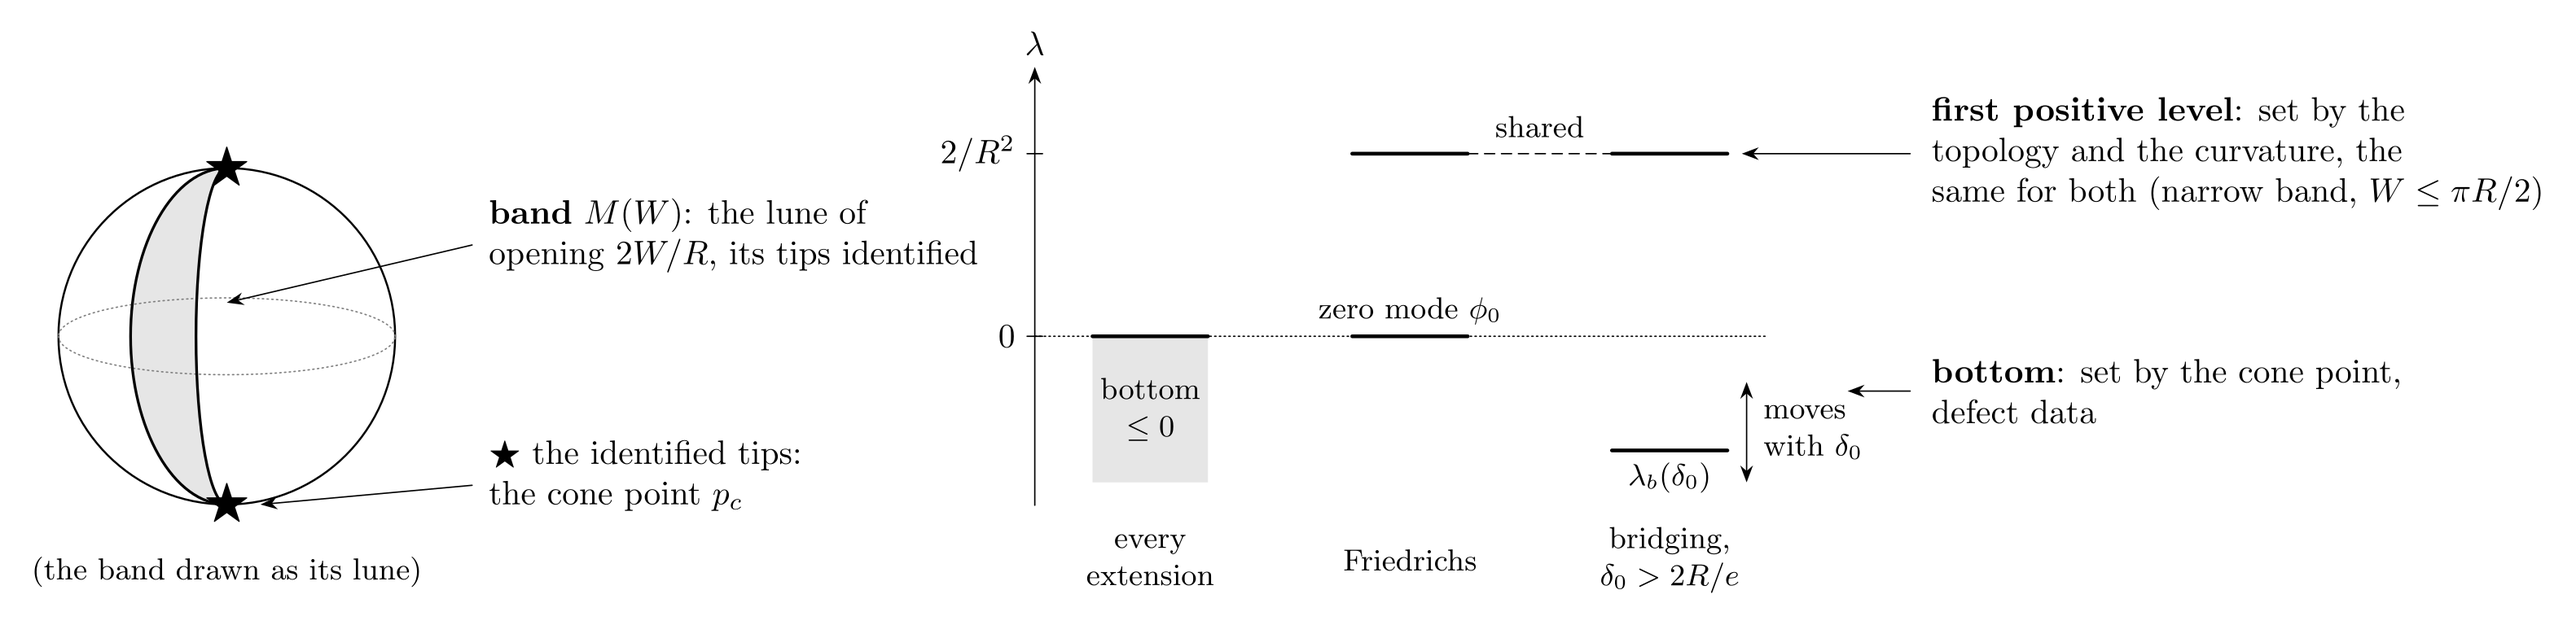
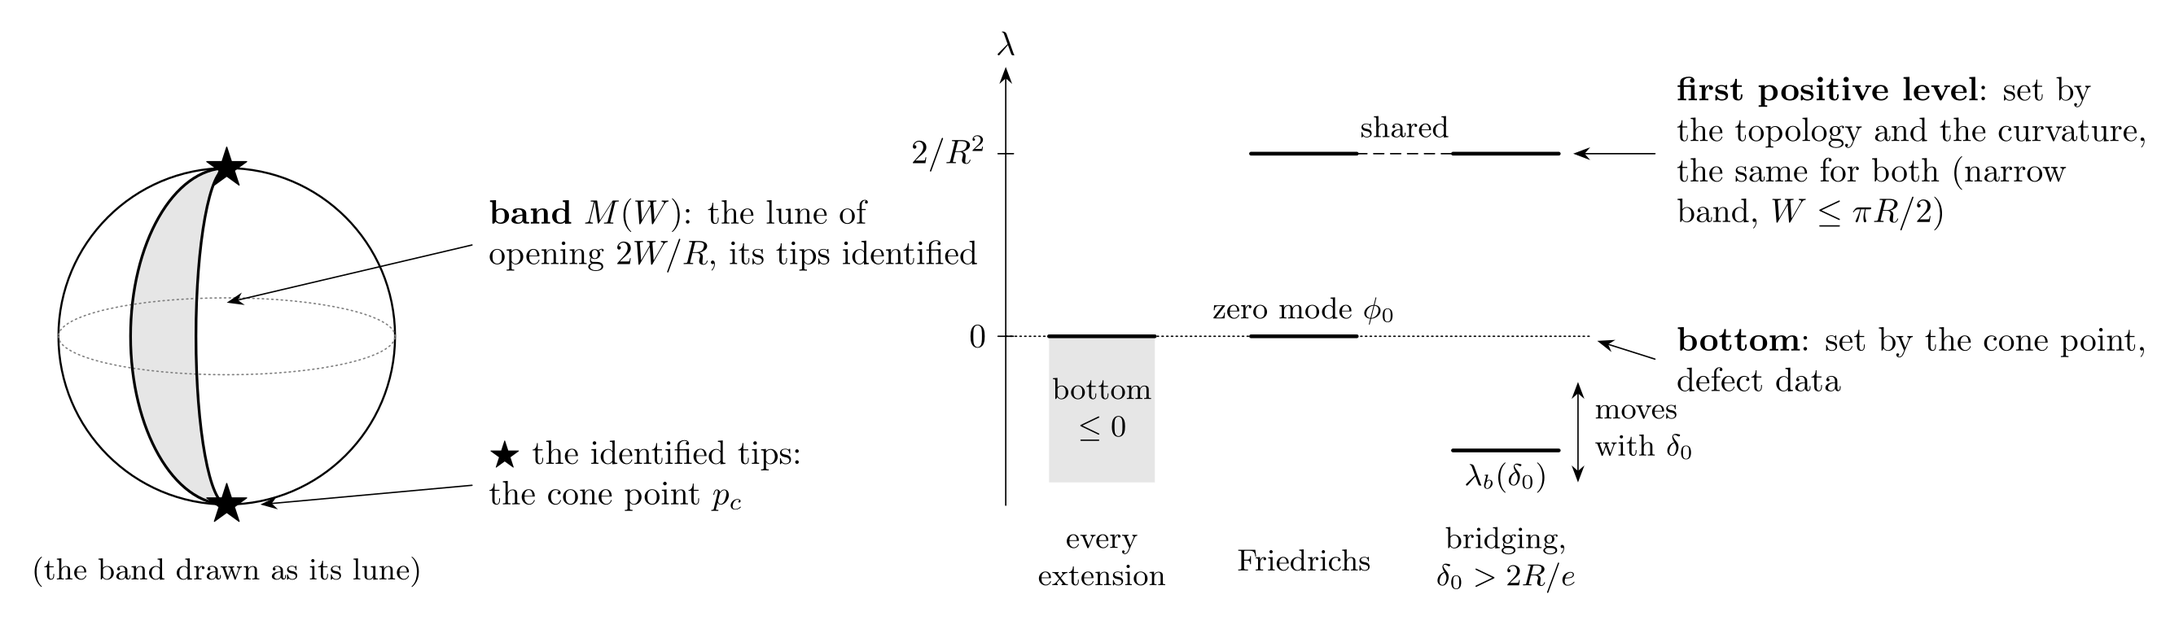
Bedrock: figures at one type size
First Eigenvalue's figure tightened to the width of the others, and
each figure's display width set in proportion to its drawn width.

diff --git a/files/framework/files/bedrock/README.md b/files/framework/files/bedrock/README.md
@@ -13,7 +13,7 @@ The postulate is one line, $`S^1 = \partial(\text{Möbius})`$, $`\text{Möbius} 
 
 ## [First Eigenvalue](files/first-eigenvalue.md)
 
-<p align="center"><img src="https://github.com/dmobius3/mode-identity-theory/blob/main/files/assets/fe-hero.png?raw=true" width="100%" alt="Left: the band M(W) drawn as its lune on the sphere, the two starred tips identified into the cone point. Right: the spectrum across realizations: every extension has bottom at most 0; Friedrichs has the zero mode at 0, bridging a bound state below 0 that moves with the defect scale; the two share the first positive level 2/R² in the narrow band"></p>
+<p align="center"><img src="https://github.com/dmobius3/mode-identity-theory/blob/main/files/assets/fe-hero.png?raw=true" width="99%" alt="Left: the band M(W) drawn as its lune on the sphere, the two starred tips identified into the cone point. Right: the spectrum across realizations: every extension has bottom at most 0; Friedrichs has the zero mode at 0, bridging a bound state below 0 that moves with the defect scale; the two share the first positive level 2/R² in the narrow band"></p>
 
 **The Surface:** The twisted Laplacian on a cone-singular constant-curvature Möbius band, where the orientation twist and collapsed-fiber cone make the ground state extension-dependent while selecting a stable first-positive branch at $`2/R^2`$ in the narrow regime. The framework reads this scale as the surface spectral seed $`\Lambda_\text{top}`$. The level carrying it is the first positive one, not a ground state, and it belongs to an operator on the surface rather than on the temporal edge.
 
@@ -25,7 +25,7 @@ The postulate is one line, $`S^1 = \partial(\text{Möbius})`$, $`\text{Möbius} 
 
 ## [Coexact Gap](files/coexact-gap.md)
 
-<p align="center"><img src="https://github.com/dmobius3/mode-identity-theory/blob/main/files/assets/cg-hero.png?raw=true" width="100%" alt="The first coexact level d²/R² against McKay distance d, above the affine E8 McKay graph of 2I with each node at its distance: the adjoint Sym²Q at distance 2 gives the gap 4/R² shared by every other irreducible flat SU(2) connection, and the Galois adjoint Sym²Q' at distance 6 gives the single exception 36/R²"></p>
+<p align="center"><img src="https://github.com/dmobius3/mode-identity-theory/blob/main/files/assets/cg-hero.png?raw=true" width="81%" alt="The first coexact level d²/R² against McKay distance d, above the affine E8 McKay graph of 2I with each node at its distance: the adjoint Sym²Q at distance 2 gives the gap 4/R² shared by every other irreducible flat SU(2) connection, and the Galois adjoint Sym²Q' at distance 6 gives the single exception 36/R²"></p>
 
 **The Space:** Flat bundles on the spherical space forms $`S^3/\Gamma`$, where the coexact spectral gap is the first McKay-occurrence level: $`4/R^2`$ for every irreducible flat connection across the ADE classification, with one exception, the Galois connection on $`S^3/2I`$ at $`36/R^2`$. The adjoint bundle is the coefficient system gauge theory asks for, so the coexact gap is the linearized gauge-sector gap; the framework carries that into its Yang-Mills reading.
 
@@ -37,7 +37,7 @@ The postulate is one line, $`S^1 = \partial(\text{Möbius})`$, $`\text{Möbius} 
 
 ## [Galois Pair](files/galois-pair.md)
 
-<p align="center"><img src="https://github.com/dmobius3/mode-identity-theory/blob/main/files/assets/gp-hero.png?raw=true" width="100%" alt="The E8 plumbing W, one −2 sphere per nontrivial irreducible of 2I, with boundary the Poincaré homology sphere; the Galois automorphism exchanges Q with Q' at the two ends of the diagram. The boundary's adjoint rho invariants differ by −8/5; the tautological bundles carry the asymmetry exactly as charge, while the mod-2 homology with its Pontryagin square cannot single out Sym²Q'"></p>
+<p align="center"><img src="https://github.com/dmobius3/mode-identity-theory/blob/main/files/assets/gp-hero.png?raw=true" width="82%" alt="The E8 plumbing W, one −2 sphere per nontrivial irreducible of 2I, with boundary the Poincaré homology sphere; the Galois automorphism exchanges Q with Q' at the two ends of the diagram. The boundary's adjoint rho invariants differ by −8/5; the tautological bundles carry the asymmetry exactly as charge, while the mod-2 homology with its Pontryagin square cannot single out Sym²Q'"></p>
 
 **The Filling:** The Poincaré homology sphere $`S^3/2I`$ carries a Galois pair of flat $`\mathrm{SU}(2)`$ connections, exchanged by $`\sqrt5 \mapsto -\sqrt5`$, and it bounds the $`E_8`$ plumbing. A single conversion identity ties the boundary's odd-signature rho invariant to the character sums of that filling, for every $`S^3/\Gamma`$; on $`S^3/2I`$ the filling's tautological bundles carry the Galois asymmetry exactly as charge, while its bare mod-2 homology cannot see it at all. The framework reads the filling as the interior the embedding produces, and the decoration-versus-homology split as the gatekeeper: the boundary's arithmetic reaches the interior through the tautological decoration, not the bare topology.
 
